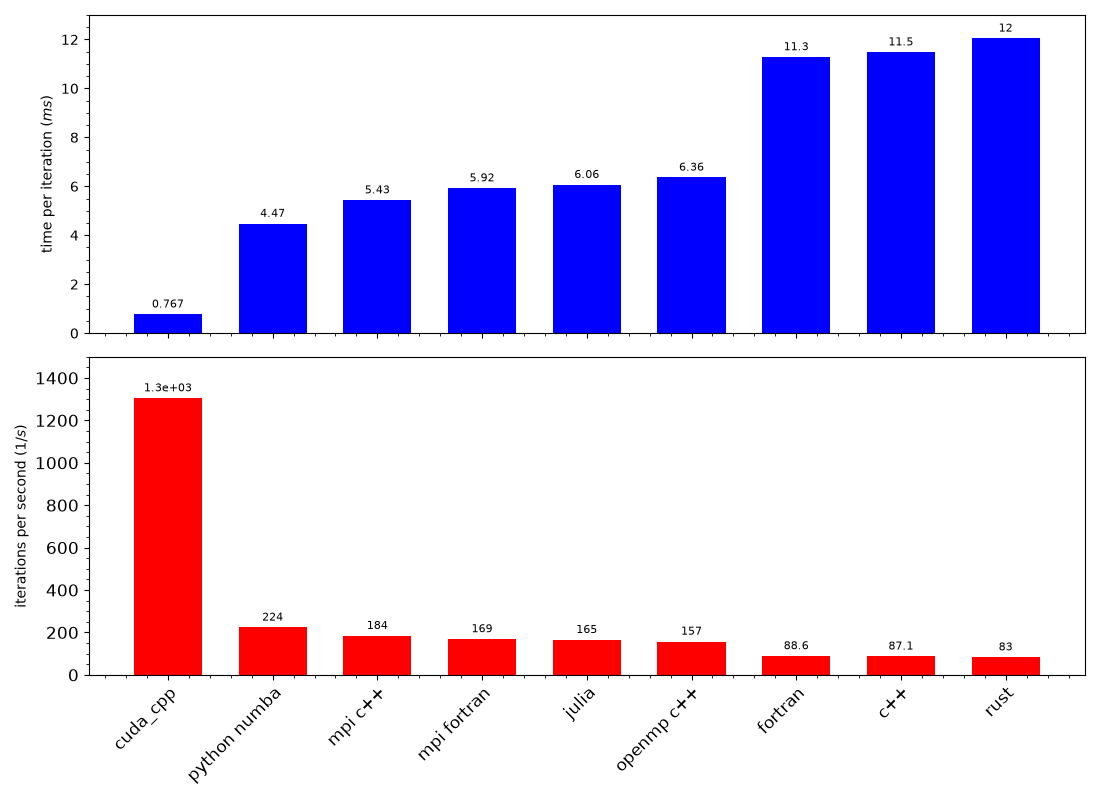
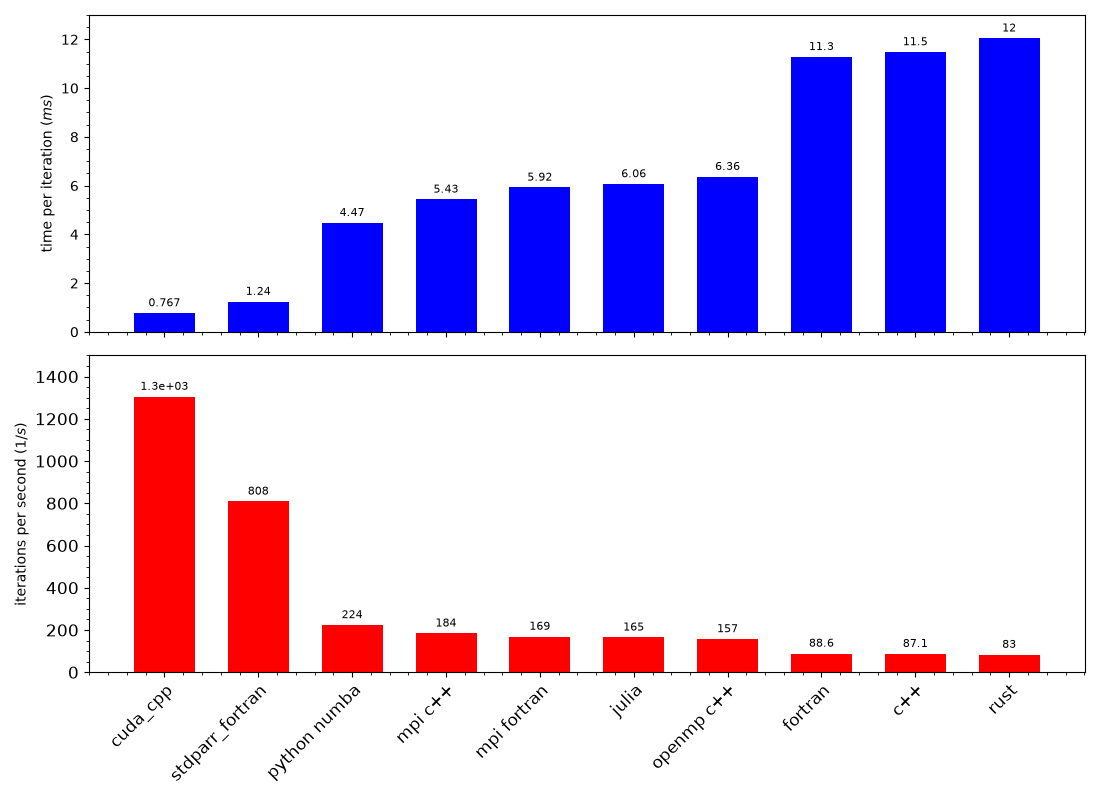
stdpar fortran addition

diff --git a/plot_benchmarks.py b/plot_benchmarks.py
@@ -20,8 +20,8 @@ import matplotlib.pyplot as plt
 import numpy
 
 project_directory = Path(__file__).resolve().parent
-output_file = project_directory / "result_benchmark_comparison_fedora.png"
-error_output_file = project_directory / "result_benchmark_error_fedora.png"
+output_file = project_directory / "result_benchmark_comparison_macos.png"
+error_output_file = project_directory / "result_benchmark_error_macos.png"
 
 metric_patterns = {
     "time_per_iteration":    re.compile(r"^\s*time[ _]per[ _]iteration:\s*([0-9.eE+-]+)", re.IGNORECASE),
